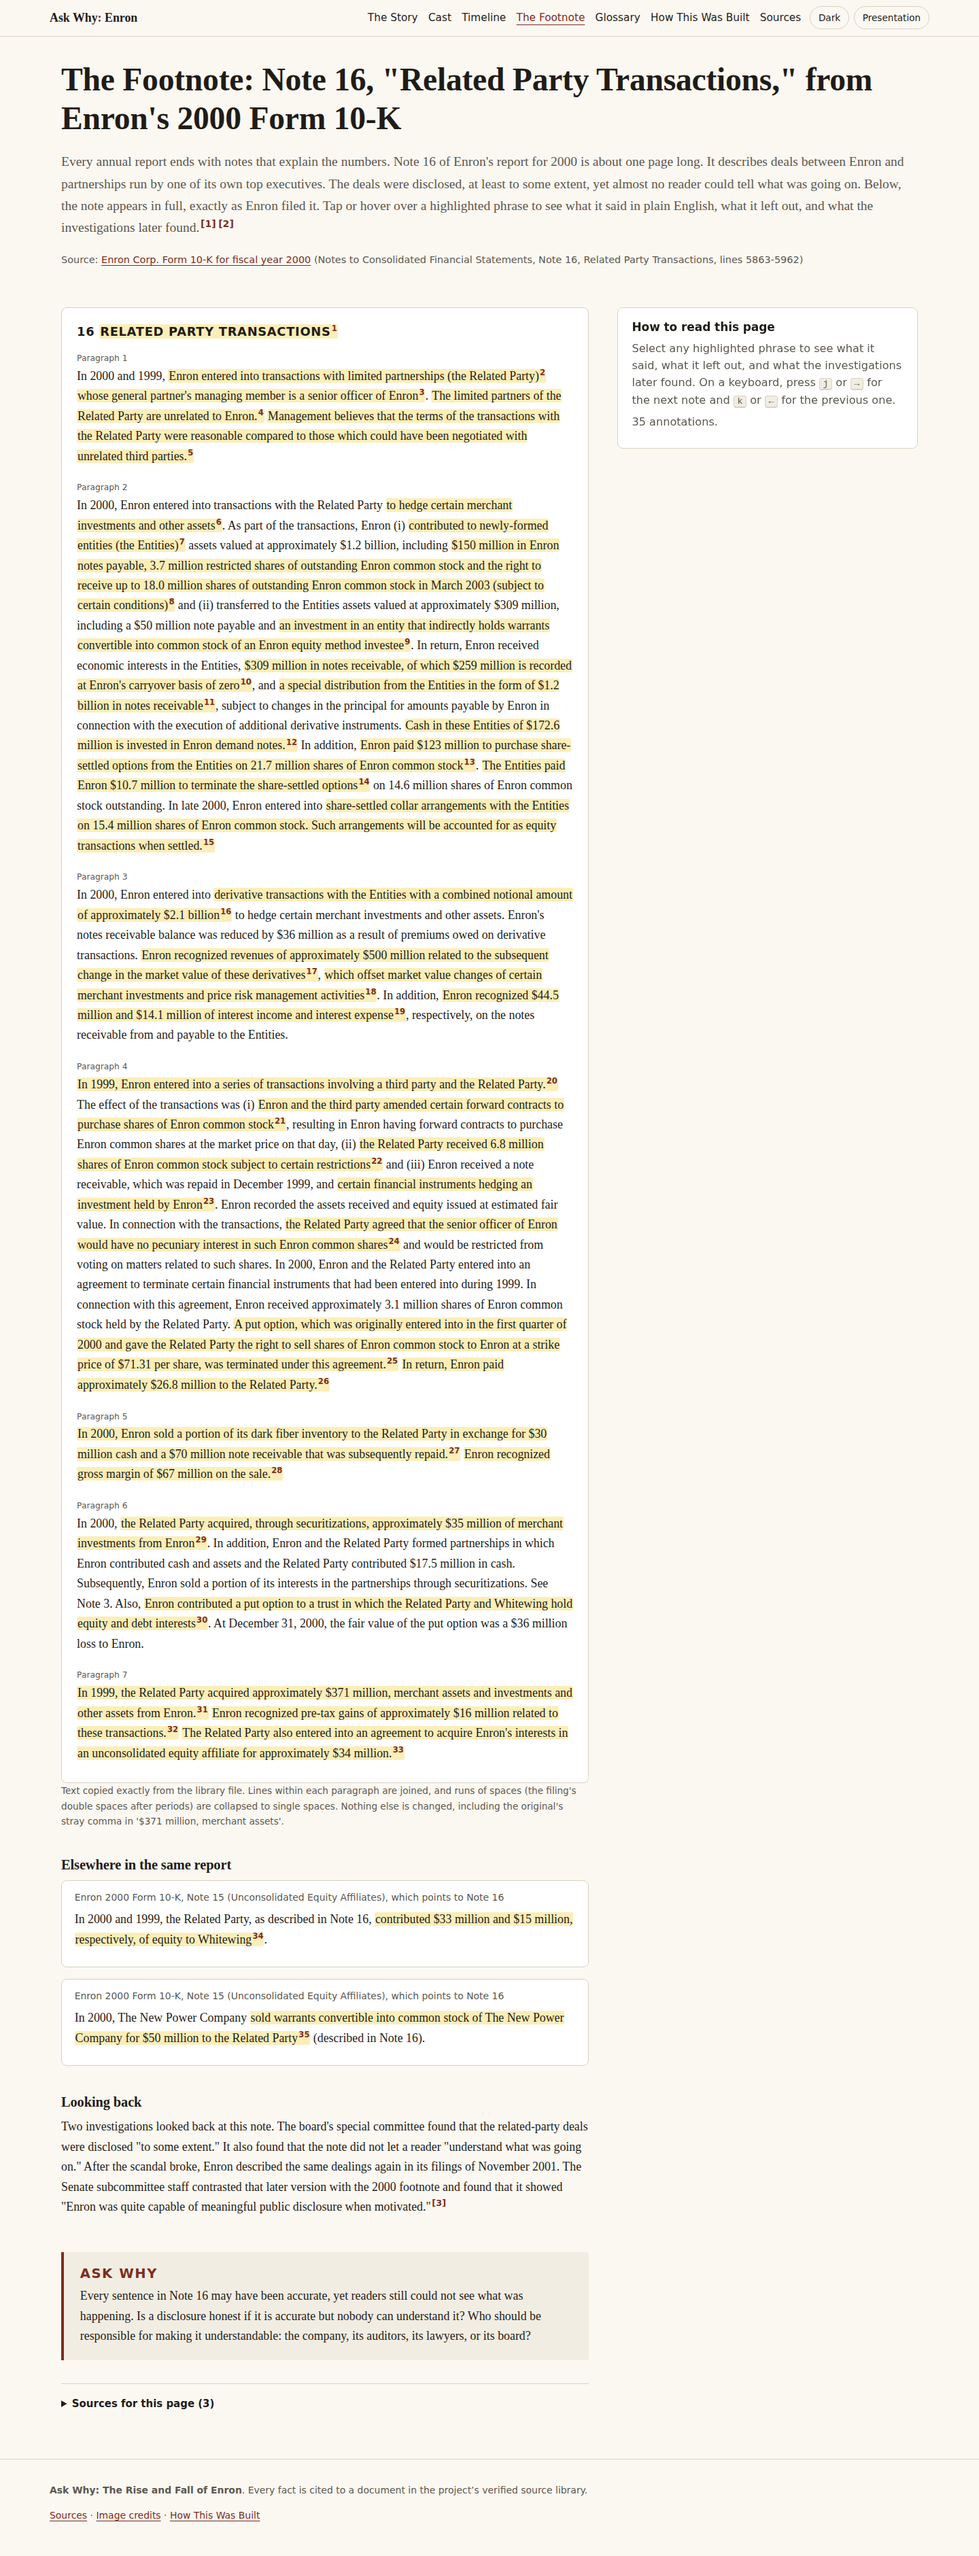
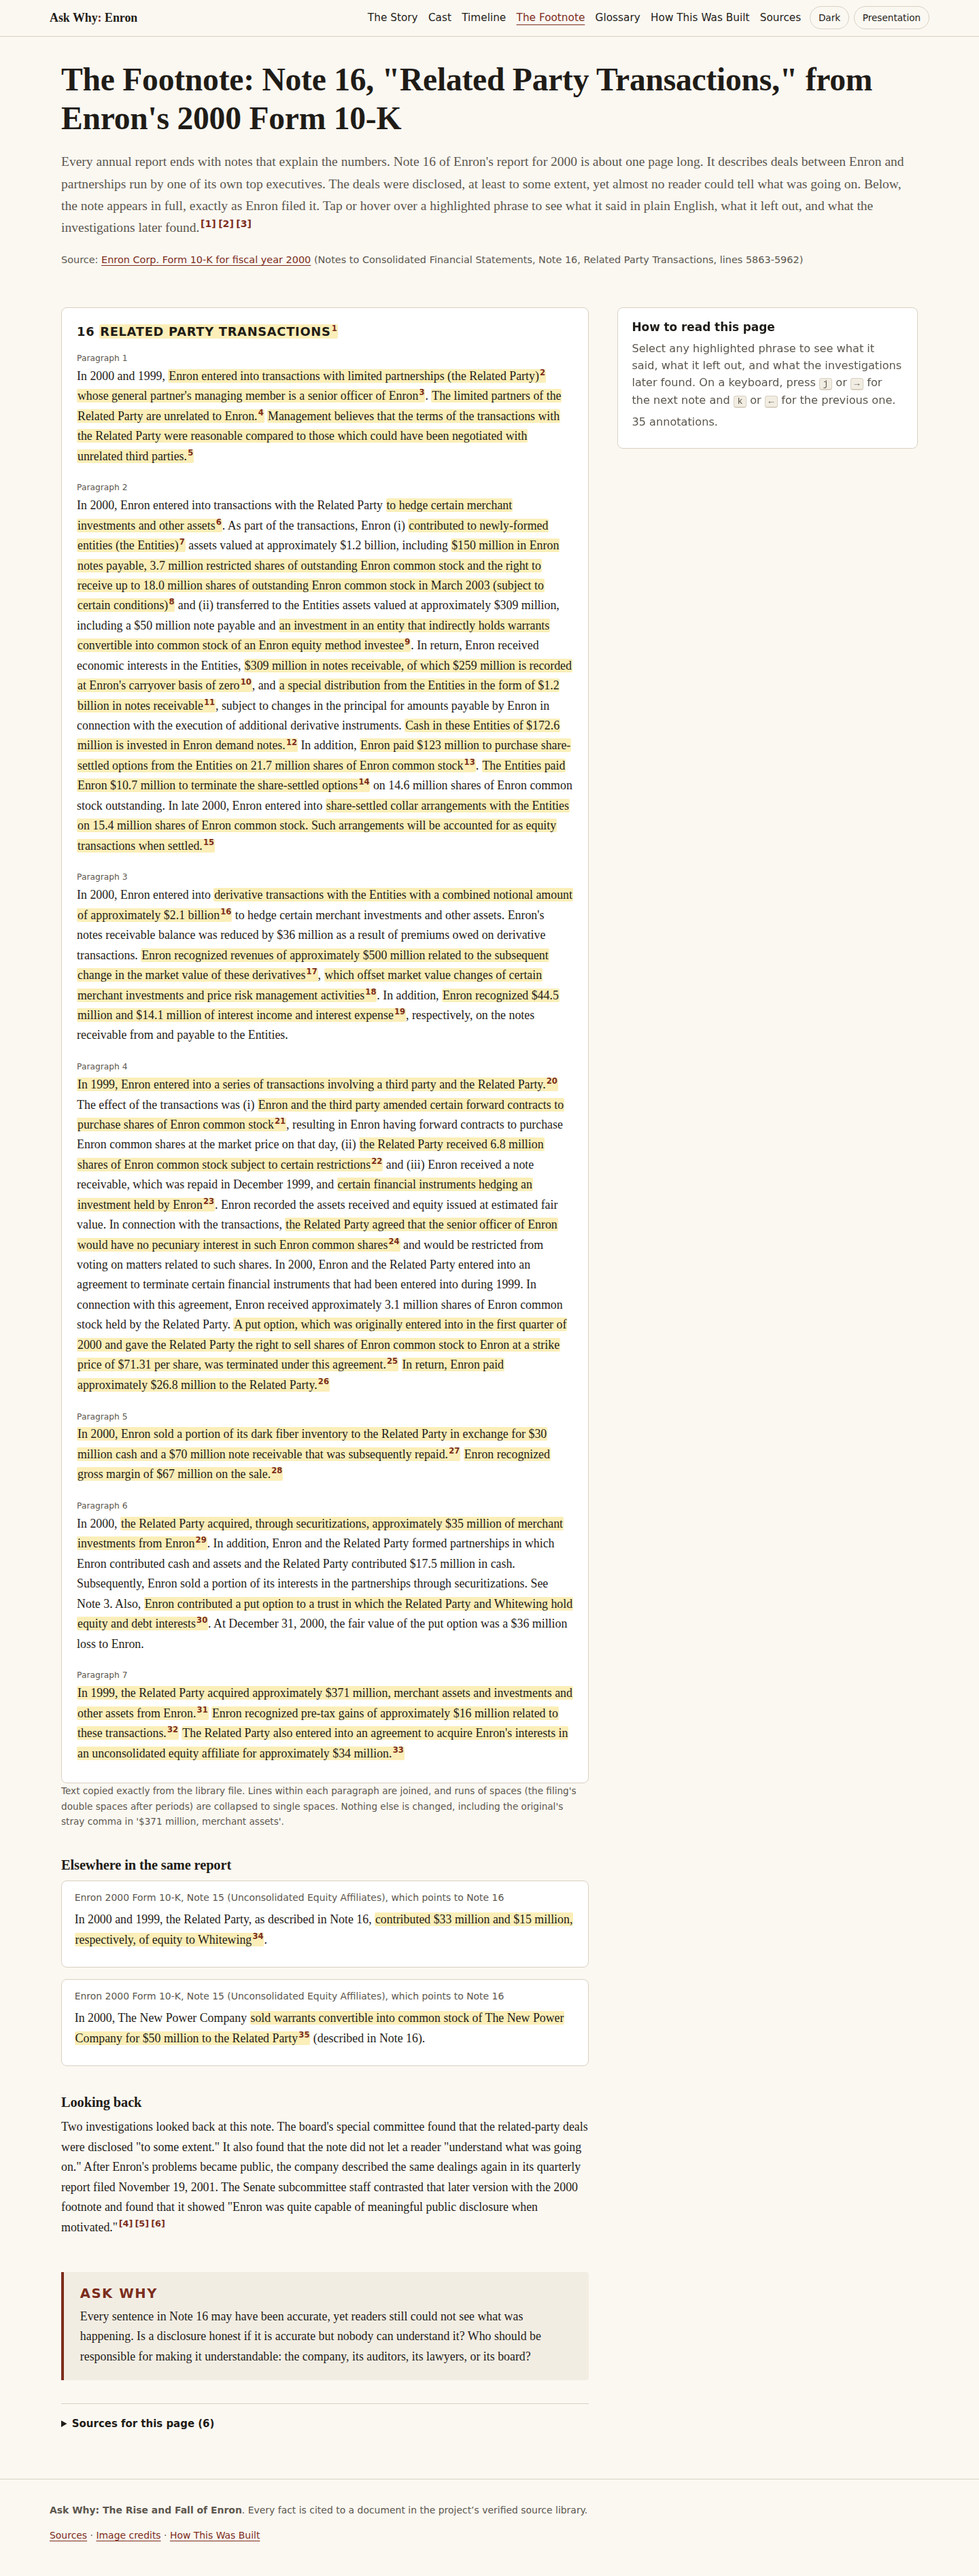
Follow-up cards checked; B-051 corrected
Claude-Session: https://claude.ai/code/session_01VzPcTHg772FLNHFdJbKT5a

Changed region(s): [[0.0625, 0.1245, 0.5938, 0.9335], [0.0625, 0.0311, 0.9062, 0.0934], [0.625, 0.1245, 0.9062, 0.1867]]

diff --git a/js/footnote-data.js b/js/footnote-data.js
@@ -36,6 +36,13 @@ window.FOOTNOTE = {
     "pdf_source_id": "powers-report",
     "loc": "Powers Report, p. 197, VIII.D.2 Adequacy of Disclosures (lines 7024ff. of SEC text)",
     "quote": "they did not communicate the essence of the transactions in a sufficiently clear fashion to enable a reader of the financial statements to understand what was going on"
+   },
+   {
+    "source_id": "rpt-psi-board",
+    "file": "sources/06-congressional-reports/sprt-107-70-role-of-board-report.pdf",
+    "pdf_page": 52,
+    "loc": "Senate PSI staff report, printed p. 48, Finding (4), Inadequate Public Disclosure",
+    "quote": "The 1999 and 2000 footnotes, each of which is about one page in length ... The 2000 footnote, in particular, is nearly unintelligible"
    }
   ],
   "checked": "OK",
@@ -385,7 +392,7 @@ window.FOOTNOTE = {
      "phrase": "Management believes that the terms of the transactions with the Related Party were reasonable compared to those which could have been negotiated with unrelated third parties.",
      "said": "Enron's managers said the deals were about as good as deals with outsiders would have been. This is the claim that the deals were made \"at arm's length,\" between independent parties.",
      "left_out": "The note does not show any evidence for the claim. It also does not show how the wording had changed over time. In its mid-1999 quarterly reports, Enron said the terms were \"reasonable and no less favorable\" than outside deals. The wording changed several times after that. In the 2000 annual report it said only that the terms were \"reasonable compared to\" what could have been negotiated.",
-     "found": "The board's special committee found that Enron \"lacked the factual basis required by the accounting literature\" for this sentence. It noted that drafts had handwritten notes reading \"need positive evidence.\" It found that \"many of them could only have been entered into with related parties.\" The committee also found that Andersen, Enron's auditor, told the board's Audit and Compliance Committee that the required disclosure had been \"reviewed for adequacy.\"",
+     "found": "The board's special committee found that Enron \"lacked the factual basis required by the accounting literature\" for this sentence. It noted that drafts had handwritten notes reading \"need positive evidence.\" It said that \"it seems likely that many of them could only have been entered into with related parties.\" The committee also found that Andersen, Enron's auditor, told the board's Audit and Compliance Committee that the required disclosure had been \"reviewed for adequacy.\"",
      "cites": [
       {
        "source_id": "powers-report-sec",
@@ -1688,8 +1695,24 @@ window.FOOTNOTE = {
   }
  ],
  "closing": {
-  "text": "Two investigations looked back at this note. The board's special committee found that the related-party deals were disclosed \"to some extent.\" It also found that the note did not let a reader \"understand what was going on.\" After the scandal broke, Enron described the same dealings again in its filings of November 2001. The Senate subcommittee staff contrasted that later version with the 2000 footnote and found that it showed \"Enron was quite capable of meaningful public disclosure when motivated.\"",
+  "text": "Two investigations looked back at this note. The board's special committee found that the related-party deals were disclosed \"to some extent.\" It also found that the note did not let a reader \"understand what was going on.\" After Enron's problems became public, the company described the same dealings again in its quarterly report filed November 19, 2001. The Senate subcommittee staff contrasted that later version with the 2000 footnote and found that it showed \"Enron was quite capable of meaningful public disclosure when motivated.\"",
   "cites": [
+   {
+    "source_id": "powers-report-sec",
+    "file": "sources/01-internal-investigation/powers-report-sec-exhibit-99-2.txt",
+    "pdf_page": 207,
+    "pdf_source_id": "powers-report",
+    "loc": "Powers Report, p. 201, VIII.E Conclusions on Disclosure (lines 7163ff. of SEC text)",
+    "quote": "the LJM partnerships, the Raptor entities, and transactions between Enron and those entities all were disclosed to some extent in Enron's public filings"
+   },
+   {
+    "source_id": "powers-report-sec",
+    "file": "sources/01-internal-investigation/powers-report-sec-exhibit-99-2.txt",
+    "pdf_page": 203,
+    "pdf_source_id": "powers-report",
+    "loc": "Powers Report, p. 197, VIII.D.2 Adequacy of Disclosures (lines 7024ff. of SEC text)",
+    "quote": "they did not communicate the essence of the transactions in a sufficiently clear fashion to enable a reader of the financial statements to understand what was going on"
+   },
    {
     "source_id": "rpt-psi-board",
     "file": "sources/06-congressional-reports/sprt-107-70-role-of-board-report.pdf",

diff --git a/images/credits.js b/images/credits.js
@@ -233,8 +233,8 @@ window.IMAGE_CREDITS = [
     "suggested_chapter": "3 Special purpose entities",
     "credit_line": "Diagram: Ask Why site team. Sources: Powers Report; Enron Form 8-K, Nov. 8, 2001",
     "retrieved": "2026-09-26",
[4 lines of base64/hex data omitted]
     "fact_cards": [
       "A-031",
       "A-032",

diff --git a/build-log/corrections.md b/build-log/corrections.md
@@ -19,3 +19,10 @@ Every correction the Fact-Checker makes or requests is recorded here: what the t
 | 13 | Card C-031 (Andersen and Audit Committee) | "The examiner found evidence that Andersen failed its duty..." | The examiner said the evidence "is sufficient to permit a fact-finder to conclude" that Andersen failed. | Claim reworded to the examiner's standard. | batson-final-app-b-part1, pp. 3-4 (PDF 5-6, image) | 2026-09-26 |
 | 14 | Card C-041 (Andersen headcount) note | "Headcount is U.S. per the article." | The examiner does not say; the cited Chicago Tribune article is not in the library. | Removed the statement and a duplicated sentence. | batson-final-app-b-part1, p. 61 (PDF 63, image) | 2026-09-26 |
 | 15 | Card C-030 (Andersen's $1 billion equity error) note | Did not connect the $1 billion equity error to the $1.2 billion equity reduction. | Powers: this $1 billion correction made up $1 billion of the $1.2 billion reduction; Batson n. 206 says it is unrelated to the Oct 16 earnings charge. | Note clarified so writers do not merge or wrongly separate the two $1 billion figures. | powers-report-sec, pp. 125-126, n. 60; batson-final-app-b-part1, p. 63 n. 206 (PDF 65, image) | 2026-09-26 |
+| 16 | Card B-051 (Koenig guilty plea) | Koenig pleaded guilty partly for a statement "on an April 2001 analyst call." | The Fifth Circuit's n. 3 is attached to Koenig's statement on the January 22, 2001 earnings call ("non-core business revenues were a 'fairly small' amount of EBS's earnings"). | Claim now says January 22, 2001; event_date set; the Cast entry (mark-koenig) must be changed the same way (Round 2 Part B finding #2). | ca5-skilling-2009, PDF pp. 5-6 (lines 184-204) and n. 3 (line 223) | 2026-09-26 |
+| 17 | Card F-002 (Watkins letter, PSI Finding 4) | "The Senate subcommittee staff found that the outside directors never saw Watkins's letter before Enron began to collapse"; verb "found". | The report attributes this to the directors: "The interviewed directors said that they saw neither the letter itself nor the Vinson & Elkins report on it until after Enron had begun to collapse." | Claim reworded to "the directors ... said"; verb "reported". Misquote ("a wave accounting scandals") confirmed against the page image. | rpt-psi-board, PDF 49 / printed p. 45 (image-checked); letter App. 2, PDF 61 (image) | 2026-09-26 |
+| 18 | Card F-003 (Watkins letter, footnotes) notes | Listed two differences between the report's block quote and the letter ("overriding principle"; "[Andersen]"). | A third: the report reads "Would he buy or sell the stock"; the letter reads "Would he sell or buy the stock". | Added the third difference to notes. | rpt-psi-board, PDF 52 / printed p. 48; letter App. 2, PDF 62 (image) | 2026-09-26 |
+| 19 | Card F-004 (Watkins letter printings) | "The full ... letter is printed ... in three library documents", including the Feb. 14, 2002 hearing. | The Feb. 14 hearing (pt3) prints only page 1 of the full letter (tab 10), plus a shorter version (tab 14, "To Rex Rogers 8/17/01"); the full letter is in PSI App. 2 and the Mar. 14 hearing (pt4) tab 14. | Claim reworded: full letter in two documents, page 1 also in the Feb. 14 hearing. | rpt-psi-board PDF 61-63; hrg-hec-collapse-pt4 PDF 120; hrg-hec-collapse-pt3 PDF 122 and 135 (all image-checked) | 2026-09-26 |
+| 20 | Card F-005 (Lay, Oct. 16, 2001 release) | Lay called "the quarter's results 'very strong'"; source type "examiner conclusion". | Lay said the 26% rise in recurring EPS "shows the very strong results of our core wholesale and retail energy businesses and our natural gas pipelines"; the examiner is quoting a press release. | Claim reworded to match; source type now "examiner's description (quoting a company press release)". | batson-1st-interim, PDF 4 / printed p. 2 (image-checked) | 2026-09-26 |
+| 21 | Card F-008 (Nancy Temple) | Source type "sworn testimony" for a quote from the chairman's opening statement; notes called the "instructed him to shred" remark a hearing witness's claim. | The quote is Chairman Greenwood's opening statement. The "instructed him to shred" remark is by Rep. Shadegg, citing press reports, while questioning Berardino. | Source type changed to "congressional hearing statement (subcommittee chairman's opening statement)"; notes corrected. | hrg-hec-andersen-shredding, PDF 7 (lines 285-292); hrg-hfs-enron-investors, line ~9625-9650 | 2026-09-26 |
+| 22 | Card F-012 (Richard Buy, Fifth Amendment) | Verb "testified". | Buy was sworn but declined to answer all questions, invoking the Fifth Amendment. | Verb changed to "declined to answer (invoked Fifth Amendment)", as on card C-007. | hrg-hec-collapse-pt2, PDF 27 / printed p. 23 (lines 1560-1573) | 2026-09-26 |

diff --git a/work/facts/factcheck-round2-partB.md b/work/facts/factcheck-round2-partB.md
@@ -133,3 +133,34 @@ Verdict lines:
 ## Gaps
 
 No new gaps. The existing gaps still stand: the Koenig plea date and sentence; Fastow's, Glisan's and Delainey's charges and sentences; Duncan's criminal case; and how the SEC's civil cases against Lay, Skilling, McMahon and the Merrill executives ended.
+
+## Follow-up: F-cards (`work/facts/reader-followup.json`) and card B-051
+
+Checked as in Round 1. For each card I verified the quote word for word at the locator (script plus hand check), opened page images for all image-only and OCR pages, checked the verb and the outcome wording, and checked the notes' side claims. Fingerprints: all files used match (see the 74-file check above). Page images opened:
+- `rpt-psi-board` PDF 49 and 61-63
+- `hrg-hec-collapse-pt4` PDF 120
+- `hrg-hec-collapse-pt3` PDF 122 and 135
+- `batson-1st-interim` PDF 4
+
+| Card | Verdict | Note |
+|---|---|---|
+| F-001 | OK | Matches the text layer and the letter image. |
+| F-002 | FIXED | "Staff found the directors never saw the letter" became "the directors said"; verb changed to "reported". **Misquote confirmed on the page image:** the report prints "a wave accounting scandals" and the letter reads "a wave of accounting scandals". |
+| F-003 | FIXED (notes) | **Misquote confirmed:** "overriding principle" vs the letter's "overriding basic principle", and "[Andersen]" vs "AA&Co." I found a third difference: "buy or sell" (report) vs "sell or buy" (letter). |
+| F-004 | FIXED | The full letter is printed in two documents, not three (PSI App. 2; Mar. 14 hearing tab 14). The Feb. 14 hearing prints page 1 (tab 10) and the shorter "To Rex Rogers" version (tab 14), both confirmed on images. |
+| F-005 | FIXED | Lay's "very strong results" referred to the core businesses, not "the quarter's results". Source type corrected. Quote verified on the image. |
+| F-006 | OK | |
+| F-007 | OK | |
+| F-008 | FIXED | Source type corrected: the quote is the chairman's opening statement, not sworn testimony. The "instructed him to shred" remark is Rep. Shadegg's, citing press reports, not a witness's. |
+| F-009 | OK | |
+| F-010 | OK, attribution required | Verbatim at `skilling-scotus-2010` PDF 93, printed p. 450 n. 12. Confirmed it is Justice Sotomayor's opinion concurring in part and dissenting in part (joined by Stevens and Breyer), in a list of publicity "highlights". It gives no charge or sentence. Use only as "According to a separate opinion in *Skilling v. United States* (2010) ...". **Side effect:** the same footnote says Andrew Fastow pleaded guilty in 2004, so the Cast's Fastow entry ("The library does not say whether he pleaded guilty ...") can be updated with the same attribution. |
+| F-011 | OK | |
+| F-012 | FIXED | Verb "testified" became "declined to answer (invoked Fifth Amendment)". |
+| F-013 | OK | |
+| F-014 | OK | |
+| F-015 | OK | |
+| B-051 | FIXED | April 2001 changed to January 22, 2001 (ca5-skilling-2009 PDF 5-6, n. 3). The Cast `mark-koenig` entry still needs the same change (finding #2). |
+
+Totals: 15 F-cards, 9 OK, 6 FIXED, 0 rejected. Corrections are logged as rows 16-22 in `build-log/corrections.md`.
+
+Side observation, not in scope: `rpt-psi-board` n. 155 (PDF 49) cites the Q3 10-Q for a "$711 million" pre-tax and "$544 million" after-tax Raptor charge. The 10-Q itself says $710 million and $462 million (card A-058). Do not cite n. 155 for these figures.
